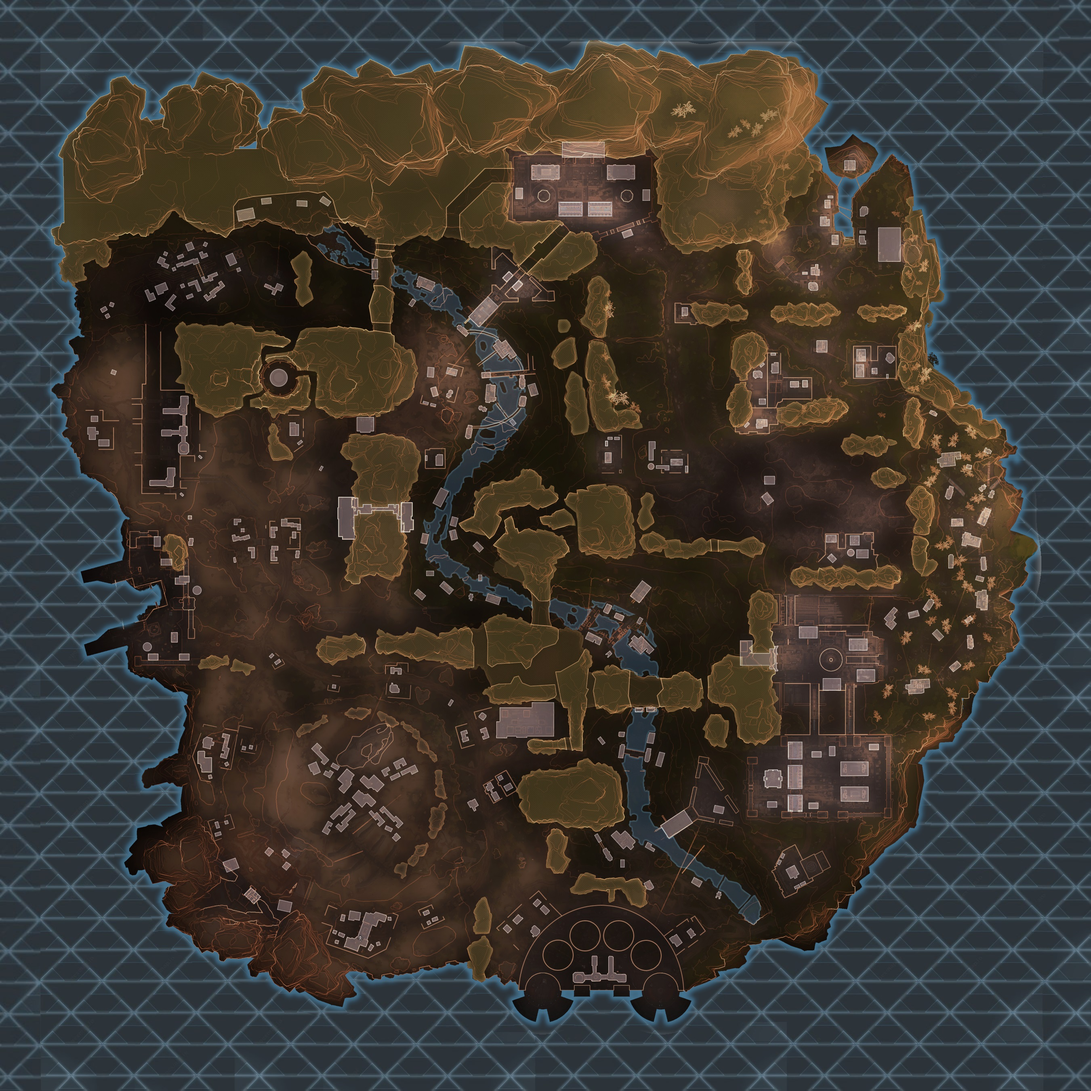
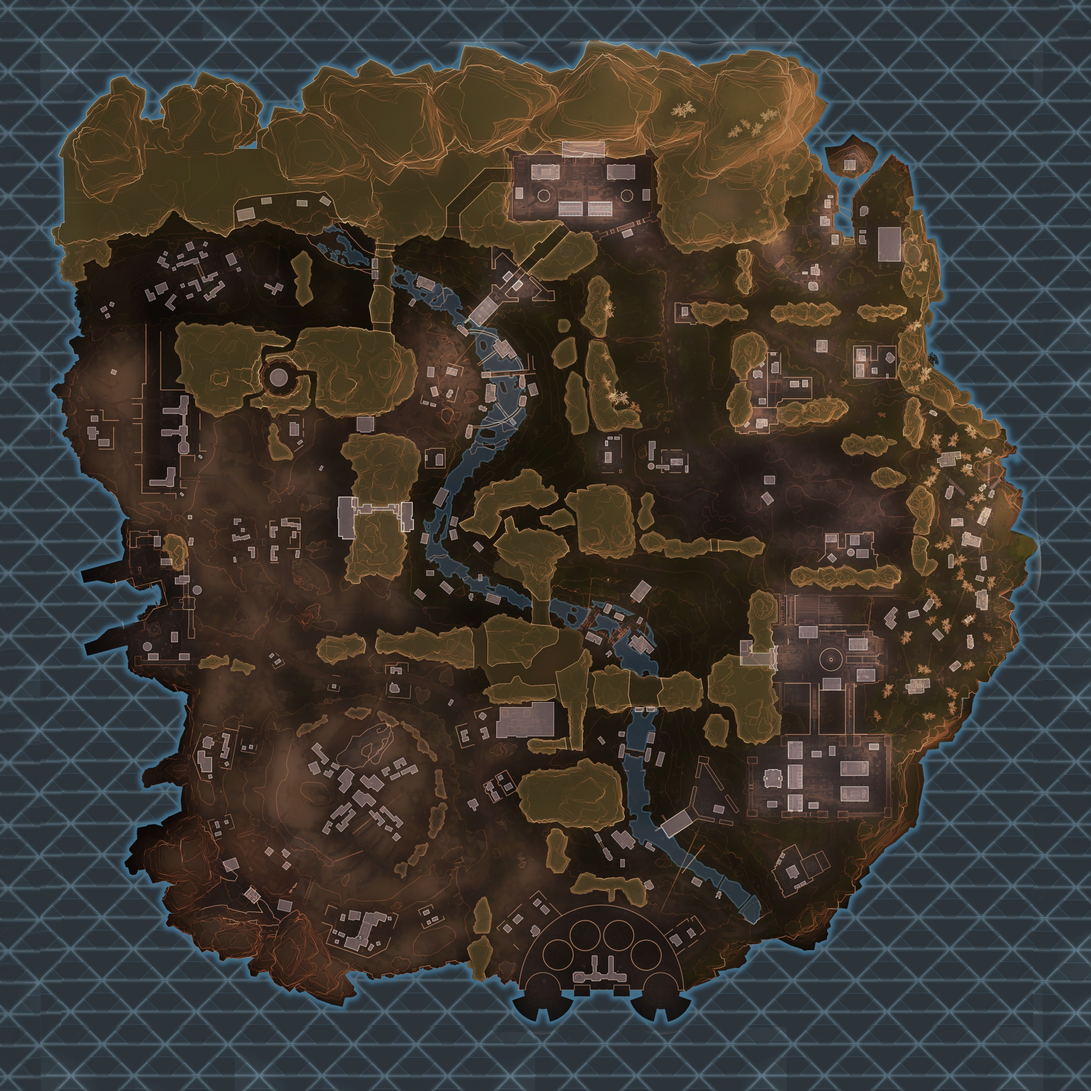
Improve map image quality

diff --git a/static/js/map.js b/static/js/map.js
@@ -1,5 +1,5 @@
 const RES = "/static/"
-const IMAGE = "https://d2igtsro72if25.cloudfront.net/1/images/"
+const IMAGE = "https://d2igtsro72if25.cloudfront.net/2/images/"
 
 var locations = route.locations;
 var landed_index = route.landed_location_index;
